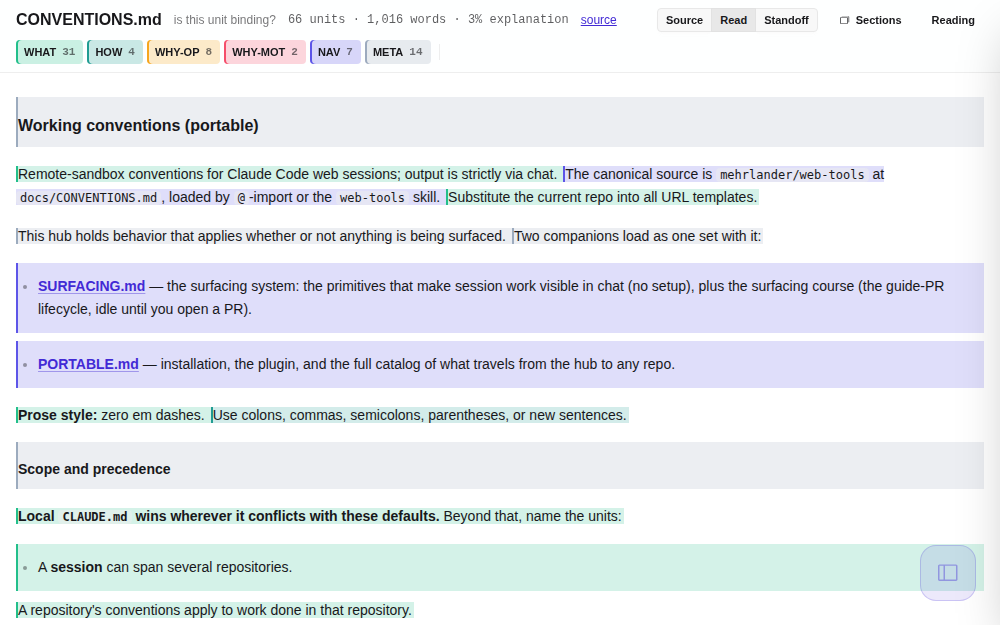
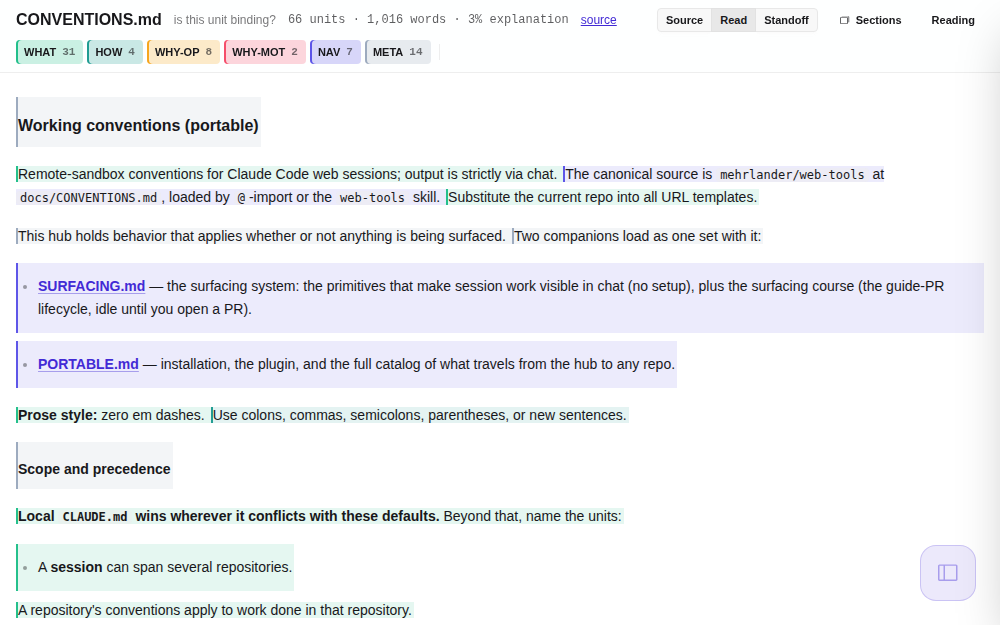
audit-render: unit tints hug their text, lighter, with a hover
Three complaints, one cause each.

Block units painted full width because they were divs. w-fit shrinks them to
their content, so a heading or a short list item hugs; a wrapping paragraph
still fills, since its max-content is one long line and fit-content then
resolves to the available width. That is the right split: the ones that
looked wrong were the short ones.

The base tint drops from .18 to .11 and the selected one from .42 to .34.
The weight moves to a hover at .26, which is what says a unit is a target;
the tint only has to say which label it carries.

Inline styles rather than a rule, because the colour is per-label and is
already set there. The page's one style block is a documented pointer-events
exception where Tailwind utilities cannot express the override, not a
licence for general styling.

Claude-Session: https://claude.ai/code/session_01GSwTgNMPnampy1zsrsATqr

Changed region(s): [[0.279, 0.8512, 0.992, 0.9728], [0.651, 0.5472, 0.992, 0.6384]]

diff --git a/pages/audit-render.html b/pages/audit-render.html
@@ -906,8 +906,17 @@ window.__audit = {
           const { html, broken, block: isBlock } = this.unitHtml(u);
           const block = this.view === 'read' && isBlock;
           const el = document.createElement(block ? 'div' : 'span');
-          el.className = `cursor-pointer px-0.5 ${block ? 'py-1 my-2' : ''}`;
-          el.style.background = tint(u.label, .18 * this.dim(u));
+          el.className = `cursor-pointer px-0.5 ${block ? 'py-1 my-2 w-fit max-w-full' : ''}`;
+          // Lighter than it was, with the weight moved to hover: the tint marks
+          // which label a unit carries and does not need to shout it, and the
+          // hover is what says the unit is a target. Inline styles rather than a
+          // rule, because the colour is per-label and set here already.
+          const bg = tint(u.label, .11 * this.dim(u));
+          const bgOver = tint(u.label, .26 * this.dim(u));
+          el.style.background = bg;
+          el.style.transition = 'background-color .12s ease';
+          el.onpointerenter = () => { if (this.sel?.uid !== u.uid) el.style.background = bgOver; };
+          el.onpointerleave = () => { if (this.sel?.uid !== u.uid) el.style.background = bg; };
           el.style.boxShadow = `inset 2px 0 0 0 ${tint(u.label, .9 * this.dim(u))}`;
           el.style.opacity = this.dim(u);
           if (broken) el.style.outline = '1px dotted rgba(239,68,68,.8)';
@@ -929,7 +938,7 @@ window.__audit = {
           Standoff.mapText(el, this.a.text, u.start);
           if (this.view !== 'source') el.appendChild(document.createTextNode(' '));
           if (u.uid === this.sel?.uid) {
-            el.style.background = tint(u.label, .42);
+            el.style.background = tint(u.label, .34);
             el.style.textDecoration = 'underline';
             el.style.textDecorationThickness = '2px';
             el.style.textUnderlineOffset = '3px';
